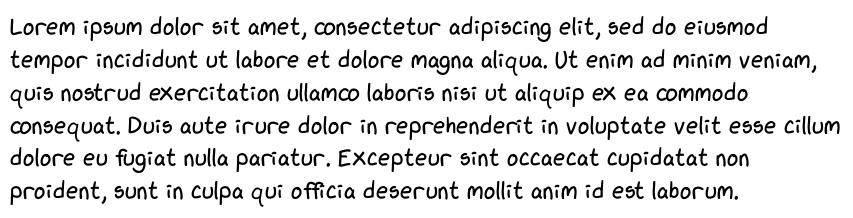
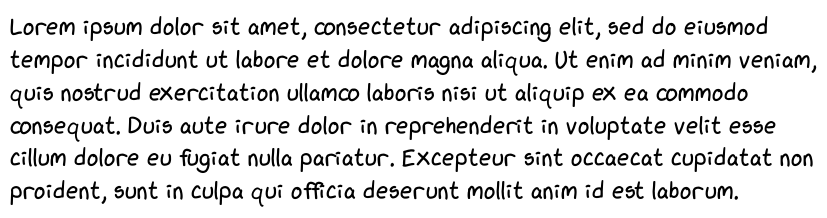
Kern the TT ligature

diff --git a/xkcd-script/generator/pt4_svg_to_font.py b/xkcd-script/generator/pt4_svg_to_font.py
@@ -275,7 +275,7 @@ def autokern(font):
     # F/E are separated from T/J so they can use a tighter target gap.
     kern(130, ['F'], all_chars)
     kern(100, ['E'], all_chars)
-    kern(150, ['T', 'J'], all_chars)
+    kern(150, ['T', 'J', 'T_T', 'T_O'], all_chars)
     # C: loosen from the default (was too tight for Ct/Cf/Cj).
     kern(65, ['C'], all_chars)
 
